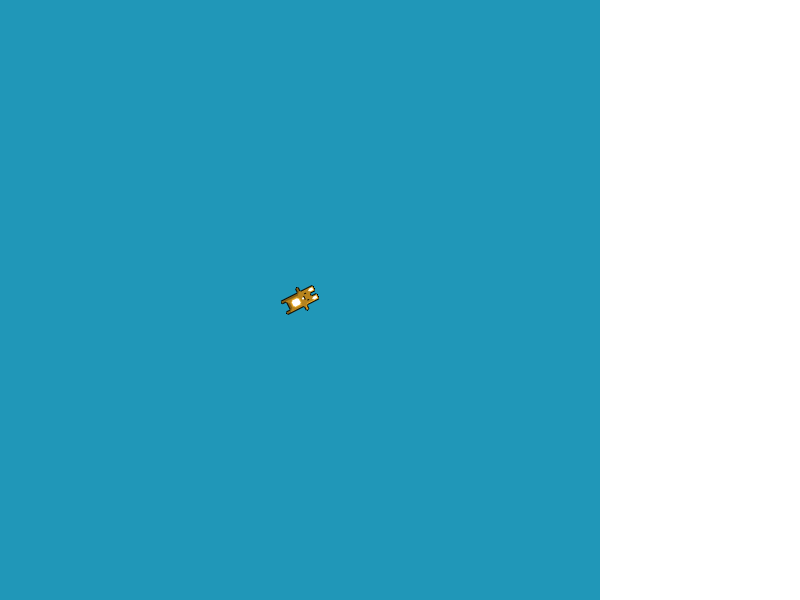
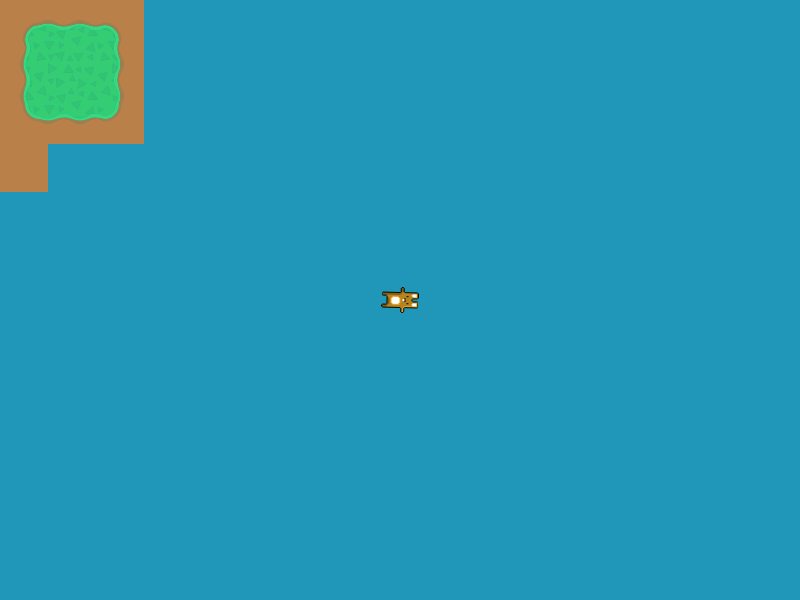
started map hashing

diff --git a/src/content-engine/public/index.html b/src/content-engine/public/index.html
@@ -13,105 +13,220 @@
 <body>
     <script src="https://cdnjs.cloudflare.com/ajax/libs/pixi.js/4.8.1/pixi.js"></script>
     <script>
-        var app = new PIXI.Application(window.innerHeight, window.innerHeight, { backgroundColor: 0x1099bb });
-        app.renderer.view.style.position = "absolute";
-        app.renderer.view.style.display = "block";
-        app.renderer.autoResize = true;
-        app.renderer.resize(window.innerWidth, window.innerHeight)
-        window.addEventListener("resize", () => {
-            app.renderer.resize(window.innerWidth, window.innerHeight);
-        });
-        window.setTimeout(() => app.renderer.resize(window.innerWidth, window.innerHeight), 1000);
+        let app;
+        const FieldType = {
+            0: 'dirt',
+            1: 'grass',
+        };
+        const AdjourningTilePostfixMap = {
+            0: { 0: 'c', 1: 'e' },
+            1: { 0: 's', 1: 'se' }
+        };
+        const DirectionInversionMap = {
+            'nw': 'se', 'n': 's', 'ne': 'sw',
+             'w':  'e', 'c': 'c',  'e':  'w',
+            'sw': 'ne', 's': 'n', 'se': 'nw',
+        };
+        const DirectionFlag = [
+            [1,2,4],
+            [128, 0, 8],
+            [64, 32, 16]
+        ];
 
-        document.body.appendChild(app.view);
+        /*
+              1  2    4
+            128  X    8
+             64  32  16
+         */
+        const DirectionHashList = {
+             'nw': [1, 130, 131, 135, 134, 67, 66],
+              'n': [2, 5, 3, 6, 7],
+             'ne': [4, 10, 14, 15, 19],
+              'w': [128, 129, 65, 172, 173],
+              'e': [8, 12, 24, 28, 20],
+             'sw': [64, 160, 224, 33],
+              's': [32, 96, 48, 80, 112],
+             'se': [16, 56, 40],
+              'c': [255, 68, 17, 136, 34, 0]
+        };
+        const DirectionHashMap = {};
+        for (const direction in DirectionHashList) {
+            for (const i in DirectionHashList[direction]) {
+                const hash = DirectionHashList[direction][i];
+                DirectionHashMap[hash] = direction;
+            }
+        }
+        const DirectionOffsetMap = {
+            'nw': [-1, -1],
+            'n': [0, -1],
+            'ne': [1, -1],
+            'w': [-1, 0],
+            'e': [1, 0],
+            'sw': [-1, 1],
+            's': [0, 1],
+            'se': [1, 1],
+            'nwi': [1, -1],
+            'nei': [-1, -1],
+            'swi': [1, 1],
+            'sei': [-1, 1],
+            'c': [0, 0]
+        };
 
-        var loader = new PIXI.loaders.Loader();
-        loader
-            .add('tileset_image', 'towerDefense.svg')
-            .add('tileset', 'towerDefense.json')
-            .load((loader, resources) => {
-                const spritesheet_texture = resources.tileset_image.texture;
-                spritesheet_texture.sourceScale = 1;
-                const spriteSheet = new PIXI.Spritesheet(spritesheet_texture, resources.tileset.data);
-                spriteSheet.parse(() => {
+        function getAdjourningTileType(mapData, posX, posY) {
+            let result = 0;
 
-                    const tiles = [
-                        'edge_dirt_grass_nw',
-                        'edge_dirt_grass_n',
-                        'edge_dirt_grass_no',
-                        'edge_dirt_grass_w',
-                        'grass',
-                        'edge_dirt_grass_o',
-                        'edge_dirt_grass_sw',
-                        'edge_dirt_grass_s',
-                        'edge_dirt_grass_so',
-                        'dirt'
-                    ];
-                    for (var i in tiles) {
-                        const tileName = tiles[i];
-                        let tile = new PIXI.Sprite(PIXI.utils.TextureCache[tileName]);
-                        tile.x = (i%3) * 48;
-                        tile.y = Math.floor(i/3)*48;
-                        app.stage.addChild(tile);
+            if (posX >= 0 && posX < mapData.meta.size.w) {
+                if (posY >= 0 && posY < mapData.meta.size.h) {
+                    result = mapData.fields[posY][posX];
+                    result = result;
+                }
+            }
+
+            return result;
+        }
+
+        function getAdjourningTileTypeByDirection(mapData, mx, my, direction) {
+            const posX = DirectionOffsetMap[direction][0];
+            const posY = DirectionOffsetMap[direction][1];
+            return getAdjourningTileType(mapData, posX, posY)
+        }
+
+        function generateTextureName(mainFieldType, adjourningTileType, direction) {
+            const mainFieldTypeName = FieldType[mainFieldType];
+            let result = mainFieldTypeName;
+            if (direction !== 'c') {
+                const adjourningTileTypeName = FieldType[adjourningTileType];
+                if (mainFieldType == adjourningTileType) {
+                    result = mainFieldTypeName;
+                } else if (mainFieldType > adjourningTileType) {
+                    result = `edge_${adjourningTileTypeName}_${mainFieldTypeName}_${direction}`;
+                } else {
+                    const inverteddirection = DirectionInversionMap[direction];
+                    result = `edge_${mainFieldTypeName}_${adjourningTileTypeName}_${inverteddirection}`;
+                }
+            }
+
+            return result;
+        }
+
+        function calculateAdjourningHash(mapData, mx, my) {
+            let result = 0;
+
+            const mainFieldType = mapData.fields[my][mx];
+
+            for (let x = 0; x < 3; x++) {
+                for (let y = 0; y < 3; y++) {
+                    let adjourningTilePosX = mx + (x-1);
+                    let adjourningTilePosY = my + (y-1);
+                    let adjourningTileType = getAdjourningTileType(mapData, adjourningTilePosX, adjourningTilePosY);
+                    if (adjourningTileType !== mainFieldType) {
+                        result += DirectionFlag[y][x];
                     }
-                })
+                }
+            }
+
+            return result;
+        }
+
+        function drawMap(mapData) {
+            for (let my = 0; my < mapData.meta.size.h; my++) {
+                for (let mx = 0; mx < mapData.meta.size.w; mx++) {
+                    const mainFieldType = mapData.fields[my][mx];
+                    let textureFieldName = FieldType[mainFieldType];
+
+                    if (mainFieldType === 0) {
+                        const hash = calculateAdjourningHash(mapData, mx, my);
+                        const direction = DirectionHashMap[hash];
+                        let adjourningTileType = getAdjourningTileTypeByDirection(mapData, mx, my, direction);
+                        textureFieldName = generateTextureName(mainFieldType, adjourningTileType, direction);
+                    }
+
+                    let tile = new PIXI.Sprite(PIXI.utils.TextureCache[textureFieldName]);
+                    tile.x = mx * 50;
+                    tile.y = my * 50;
+                    app.stage.addChild(tile);
+                }
+            }
+
+        }
+
+        function onResourcesLoaded(loader, resources) {
+            const spritesheet_texture = resources.tileset_image.texture;
+            spritesheet_texture.sourceScale = 1;
+            const spriteSheet = new PIXI.Spritesheet(spritesheet_texture, resources.tileset.data);
+            spriteSheet.parse(() =>{
+                drawMap(resources.map.data);
+
+                var bunny = PIXI.Sprite.fromImage('bunny.png');
+                bunny.anchor.set(0.5);
+                bunny.x = app.screen.width / 2;
+                bunny.y = app.screen.height / 2;
+                app.stage.addChild(bunny);
+
+                app.ticker.add(function (delta) {
+                    bunny.rotation += 0.1 * delta;
+                });
+            });
+        }
+
+        function init() {
+            app = new PIXI.Application(window.innerHeight, window.innerHeight, { backgroundColor: 0x1099bb });
+            app.renderer.view.style.position = "absolute";
+            app.renderer.view.style.display = "block";
+            app.renderer.autoResize = true;
+            app.renderer.resize(window.innerWidth, window.innerHeight)
+            window.addEventListener("resize", () => {
+                app.renderer.resize(window.innerWidth, window.innerHeight);
+            });
+            window.setTimeout(() => app.renderer.resize(window.innerWidth, window.innerHeight), 1000);
+
+            document.body.appendChild(app.view);
+
+            var loader = new PIXI.loaders.Loader();
+            loader
+                .add('tileset_image', 'towerDefense.svg')
+                .add('tileset', 'towerDefense.json')
+                .add('map', 'map.json')
+                .load(onResourcesLoaded);
+
+            const WEBSOCKET_URL = 'ws://localhost:9000/';
+            console.log('Connecting to WebSocket at', WEBSOCKET_URL);
+            const ws = new WebSocket(WEBSOCKET_URL);
+
+            ws.addEventListener('open', (e) => {
+                console.log('WebSocket Open', e);
             });
 
-        // create a new Sprite from an image path
-        var bunny = PIXI.Sprite.fromImage('bunny.png');
+            ws.addEventListener('close', (e) => {
+                console.log('WebSocket Close', e);
+            });
 
-        // center the sprite's anchor point
-        bunny.anchor.set(0.5);
+            ws.addEventListener('error', (e) => {
+                console.log('WebSocket Close', e);
+            });
 
-        // move the sprite to the center of the screen
-        bunny.x = app.screen.width / 2;
-        bunny.y = app.screen.height / 2;
+            ws.addEventListener('message', (e) => {
+                //console.log('WebSocket Message', e);
+                if (e.data instanceof Blob) {
+                    const reader = new FileReader()
+                    reader.onload = () => {
+                        const markers = JSON.parse(reader.result);
+                        for (const i in markers) {
+                            const data = markers[i];
+                            const { ids, marker, transform } = data;
 
-        app.stage.addChild(bunny);
-
-        const WEBSOCKET_URL = 'ws://localhost:9000/';
-        console.log('Connecting to WebSocket at', WEBSOCKET_URL);
-        const ws = new WebSocket(WEBSOCKET_URL);
-
-        ws.addEventListener('open', (e) => {
-            console.log('WebSocket Open', e);
-        });
-
-        ws.addEventListener('close', (e) => {
-            console.log('WebSocket Close', e);
-        });
-
-        ws.addEventListener('error', (e) => {
-            console.log('WebSocket Close', e);
-        });
-
-        ws.addEventListener('message', (e) => {
-            //console.log('WebSocket Message', e);
-            if (e.data instanceof Blob) {
-                const reader = new FileReader()
-                reader.onload = () => {
-                    const markers = JSON.parse(reader.result);
-                    for (const i in markers) {
-                        const data = markers[i];
-                        const { ids, marker, transform } = data;
-
-                        if (ids[0] == 1) {
-                            bunny.x = marker[0][0][0];
-                            bunny.y = marker[0][0][1];
+                            if (ids[0] == 1) {
+                                bunny.x = marker[0][0][0];
+                                bunny.y = marker[0][0][1];
+                            }
                         }
-                    }
-                };
-                reader.readAsText(e.data);
-            }
-        });
+                    };
+                    reader.readAsText(e.data);
+                }
+            });
+        }
 
-        // Listen for animate update
-        app.ticker.add(function (delta) {
-            // just for fun, let's rotate mr rabbit a little
-            // delta is 1 if running at 100% performance
-            // creates frame-independent transformation
-            bunny.rotation += 0.1 * delta;
-        });
+        init();
     </script>
 </body>
 </html>
